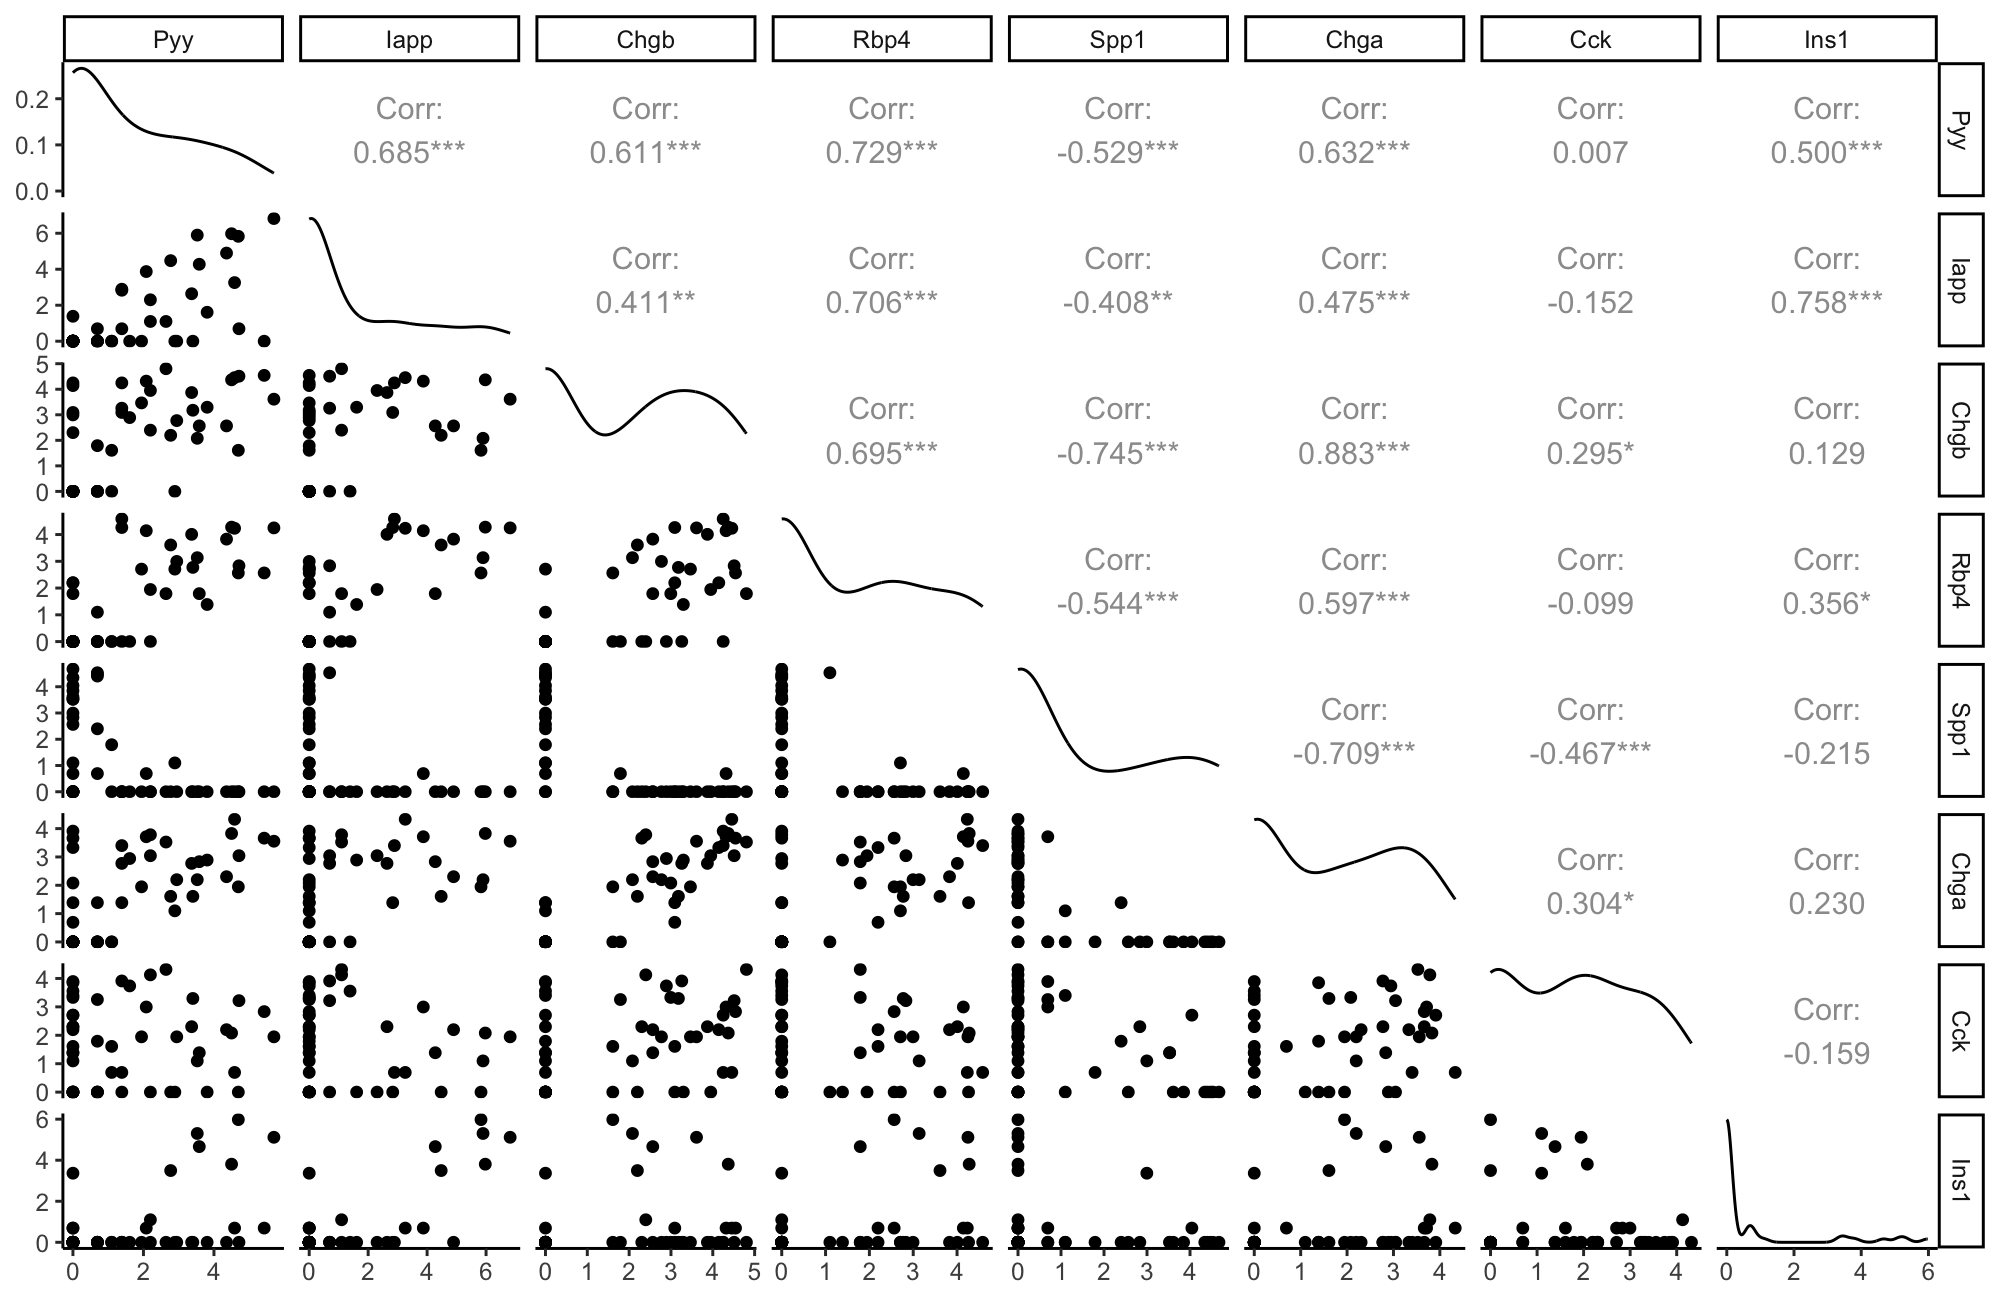
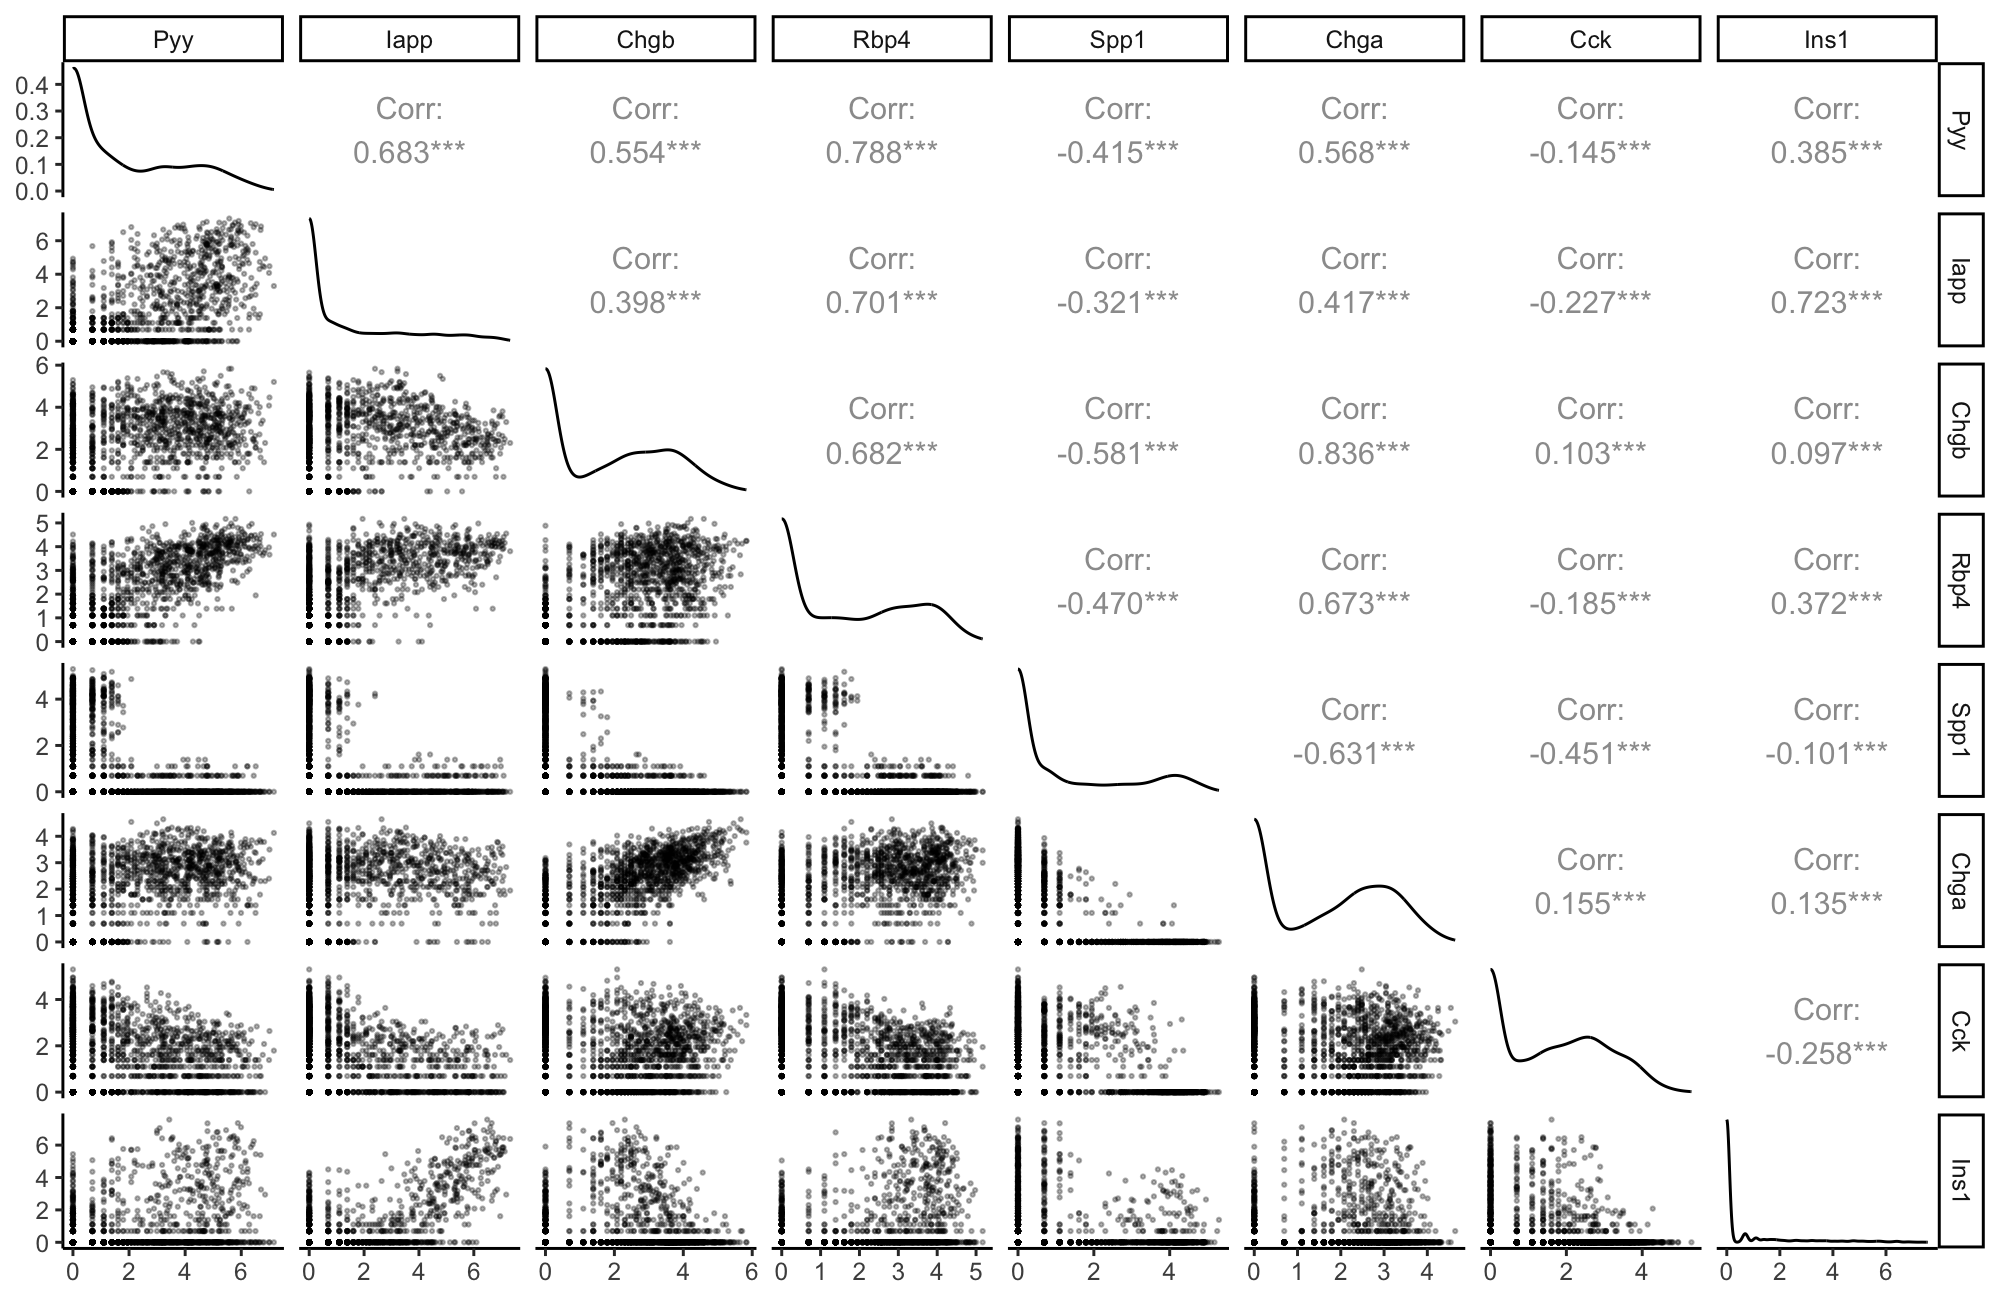
some revisions

diff --git a/2023/20231206/20231206.html b/2023/20231206/20231206.html
@@ -269,20 +269,20 @@ For each gene, we can specify the regression formula and distributional family.
 
 
 ```r
-margins &lt;- setup_margins(sce, ~ ns(pseudotime, df = 3),  ~ ZINBLSS())
+margins &lt;- setup_margins(sce, ~ ns(pseudotime, 3),  ~ ZINBLSS())
 margins
 ```
 
 &lt;pre class="r-output"&gt;&lt;code&gt;## &lt;span style='color: #BB00BB;'&gt;Plan:
 ## &lt;/span&gt;&lt;span style='color: #555555;'&gt;# A tibble: 6 x 3&lt;/span&gt;
-##     feature              family                    link
-##   &lt;span style='color: #555555; font-style: italic;'&gt;&lt;gene_id&gt;&lt;/span&gt;             &lt;span style='color: #555555; font-style: italic;'&gt;&lt;distn&gt;&lt;/span&gt;                  &lt;span style='color: #555555; font-style: italic;'&gt;&lt;link&gt;&lt;/span&gt;
-## &lt;span style='color: #555555;'&gt;1&lt;/span&gt;       &lt;span style='color: #00BBBB;'&gt;Pyy&lt;/span&gt; ZINBI [mu,sigma,nu] ~ns(pseudotime, df = 3)
-## &lt;span style='color: #555555;'&gt;2&lt;/span&gt;      &lt;span style='color: #00BBBB;'&gt;Iapp&lt;/span&gt; ZINBI [mu,sigma,nu] ~ns(pseudotime, df = 3)
-## &lt;span style='color: #555555;'&gt;3&lt;/span&gt;      &lt;span style='color: #00BBBB;'&gt;Chgb&lt;/span&gt; ZINBI [mu,sigma,nu] ~ns(pseudotime, df = 3)
-## &lt;span style='color: #555555;'&gt;4&lt;/span&gt;      &lt;span style='color: #00BBBB;'&gt;Rbp4&lt;/span&gt; ZINBI [mu,sigma,nu] ~ns(pseudotime, df = 3)
-## &lt;span style='color: #555555;'&gt;5&lt;/span&gt;      &lt;span style='color: #00BBBB;'&gt;Spp1&lt;/span&gt; ZINBI [mu,sigma,nu] ~ns(pseudotime, df = 3)
-## &lt;span style='color: #555555;'&gt;6&lt;/span&gt;      &lt;span style='color: #00BBBB;'&gt;Chga&lt;/span&gt; ZINBI [mu,sigma,nu] ~ns(pseudotime, df = 3)
+##     feature              family               link
+##   &lt;span style='color: #555555; font-style: italic;'&gt;&lt;gene_id&gt;&lt;/span&gt;             &lt;span style='color: #555555; font-style: italic;'&gt;&lt;distn&gt;&lt;/span&gt;             &lt;span style='color: #555555; font-style: italic;'&gt;&lt;link&gt;&lt;/span&gt;
+## &lt;span style='color: #555555;'&gt;1&lt;/span&gt;       &lt;span style='color: #00BBBB;'&gt;Pyy&lt;/span&gt; ZINBI [mu,sigma,nu] ~ns(pseudotime, 3)
+## &lt;span style='color: #555555;'&gt;2&lt;/span&gt;      &lt;span style='color: #00BBBB;'&gt;Iapp&lt;/span&gt; ZINBI [mu,sigma,nu] ~ns(pseudotime, 3)
+## &lt;span style='color: #555555;'&gt;3&lt;/span&gt;      &lt;span style='color: #00BBBB;'&gt;Chgb&lt;/span&gt; ZINBI [mu,sigma,nu] ~ns(pseudotime, 3)
+## &lt;span style='color: #555555;'&gt;4&lt;/span&gt;      &lt;span style='color: #00BBBB;'&gt;Rbp4&lt;/span&gt; ZINBI [mu,sigma,nu] ~ns(pseudotime, 3)
+## &lt;span style='color: #555555;'&gt;5&lt;/span&gt;      &lt;span style='color: #00BBBB;'&gt;Spp1&lt;/span&gt; ZINBI [mu,sigma,nu] ~ns(pseudotime, 3)
+## &lt;span style='color: #555555;'&gt;6&lt;/span&gt;      &lt;span style='color: #00BBBB;'&gt;Chga&lt;/span&gt; ZINBI [mu,sigma,nu] ~ns(pseudotime, 3)
 ## &lt;span style='color: #00BBBB;'&gt;Pyy, Iapp, Chgb&lt;/span&gt;, and &lt;span style='color: #00BBBB;'&gt;7&lt;/span&gt; &lt;span style='color: #00BBBB;'&gt;other features&lt;/span&gt; need fitting.&lt;span style='color: #BB00BB;'&gt;
 ## Estimates:
 ## &lt;/span&gt;&lt;span style='color: #555555;'&gt;# A tibble: 0 x 0&lt;/span&gt;
@@ -351,9 +351,8 @@ plot(simulator, "pseudotime", line_opts = line_opts, ribbon_opts = ribbon_opts, 
 
 
 ```r
-grid &lt;- expand_colData(sce, "pseudotime")
-samples &lt;- sample(simulator, new_data = grid)
-plot_correlations(samples, points_opts = list(size = 1.5, alpha = 1))
+sample(simulator) |&gt;
+  plot_correlations(points = point_opts)
 ```
 
 &lt;img src="20231206_files/figure-html/correlation_plot-1.png" width="600" style="display: block; margin: auto;" /&gt;
@@ -376,20 +375,20 @@ We can change the regression formula for specific genes. Syntax color highlights
 
 ```r
 margins |&gt;
-  mutate(Spp1:Cck, link = ~ pseudotime) 
+  mutate(Chga:Ins1, link = ~ pseudotime) 
 ```
 
 &lt;pre class="r-output"&gt;&lt;code&gt;## &lt;span style='color: #BB00BB;'&gt;Plan:
 ## &lt;/span&gt;&lt;span style='color: #555555;'&gt;# A tibble: 6 x 3&lt;/span&gt;
-##     feature              family                    link
-##   &lt;span style='color: #555555; font-style: italic;'&gt;&lt;gene_id&gt;&lt;/span&gt;             &lt;span style='color: #555555; font-style: italic;'&gt;&lt;distn&gt;&lt;/span&gt;                  &lt;span style='color: #555555; font-style: italic;'&gt;&lt;link&gt;&lt;/span&gt;
-## &lt;span style='color: #555555;'&gt;1&lt;/span&gt;       Pyy ZINBI [mu,sigma,nu] ~ns(pseudotime, df = 3)
-## &lt;span style='color: #555555;'&gt;2&lt;/span&gt;      Iapp ZINBI [mu,sigma,nu] ~ns(pseudotime, df = 3)
-## &lt;span style='color: #555555;'&gt;3&lt;/span&gt;      Chgb ZINBI [mu,sigma,nu] ~ns(pseudotime, df = 3)
-## &lt;span style='color: #555555;'&gt;4&lt;/span&gt;      Rbp4 ZINBI [mu,sigma,nu] ~ns(pseudotime, df = 3)
-## &lt;span style='color: #555555;'&gt;5&lt;/span&gt;      &lt;span style='color: #00BBBB;'&gt;Spp1&lt;/span&gt; ZINBI [mu,sigma,nu]             ~pseudotime
-## &lt;span style='color: #555555;'&gt;6&lt;/span&gt;      &lt;span style='color: #00BBBB;'&gt;Chga&lt;/span&gt; ZINBI [mu,sigma,nu]             ~pseudotime
-## &lt;span style='color: #00BBBB;'&gt;Spp1 and Chga and Cck&lt;/span&gt; need fitting.&lt;span style='color: #BB00BB;'&gt;
+##     feature              family               link
+##   &lt;span style='color: #555555; font-style: italic;'&gt;&lt;gene_id&gt;&lt;/span&gt;             &lt;span style='color: #555555; font-style: italic;'&gt;&lt;distn&gt;&lt;/span&gt;             &lt;span style='color: #555555; font-style: italic;'&gt;&lt;link&gt;&lt;/span&gt;
+## &lt;span style='color: #555555;'&gt;1&lt;/span&gt;       Pyy ZINBI [mu,sigma,nu] ~ns(pseudotime, 3)
+## &lt;span style='color: #555555;'&gt;2&lt;/span&gt;      Iapp ZINBI [mu,sigma,nu] ~ns(pseudotime, 3)
+## &lt;span style='color: #555555;'&gt;3&lt;/span&gt;      Chgb ZINBI [mu,sigma,nu] ~ns(pseudotime, 3)
+## &lt;span style='color: #555555;'&gt;4&lt;/span&gt;      Rbp4 ZINBI [mu,sigma,nu] ~ns(pseudotime, 3)
+## &lt;span style='color: #555555;'&gt;5&lt;/span&gt;      Spp1 ZINBI [mu,sigma,nu] ~ns(pseudotime, 3)
+## &lt;span style='color: #555555;'&gt;6&lt;/span&gt;      &lt;span style='color: #00BBBB;'&gt;Chga&lt;/span&gt; ZINBI [mu,sigma,nu]        ~pseudotime
+## &lt;span style='color: #00BBBB;'&gt;Chga and Cck and Ins1&lt;/span&gt; need fitting.&lt;span style='color: #BB00BB;'&gt;
 ## Estimates:
 ## &lt;/span&gt;&lt;span style='color: #555555;'&gt;# A tibble: 3 x 2&lt;/span&gt;
 ##   feature fit       
@@ -406,7 +405,7 @@ margins |&gt;
 
 
 ```r
-altered &lt;- mutate(margins, Spp1:Cck, link = ~ pseudotime) |&gt;
+altered &lt;- mutate(margins, Chga:Ins1, link = ~ pseudotime) |&gt;
   estimate(sce)
 plot(altered, sce, "pseudotime", line_opts = line_opts, ribbon_opts = ribbon_opts, point_opts = point_opts) +
   facet_wrap(~ feature, ncol = 4, scales = "free_y")
@@ -423,22 +422,22 @@ And we can layer several on top of one another.
 
 ```r
 margins |&gt;
-  mutate(Spp1:Cck, link = ~ pseudotime) |&gt;
-  mutate(c("Pyy", "Ins1"), family = ~ GaussianLSS()) |&gt;
-  mutate(Iapp, link = list(mu = ~ ns(pseudotime, df = 3), sigma = ~ 1, nu = ~ 1))
+  mutate(Chga:Ins1, link = ~ pseudotime) |&gt;
+  mutate(c("Pyy", "Rbp4"), family = ~ GaussianLSS()) |&gt;
+  mutate(Iapp, link = list(mu = ~ ns(pseudotime, df = 5), sigma = ~ 1, nu = ~ 1))
 ```
 
 &lt;pre class="r-output"&gt;&lt;code&gt;## &lt;span style='color: #BB00BB;'&gt;Plan:
 ## &lt;/span&gt;&lt;span style='color: #555555;'&gt;# A tibble: 6 x 3&lt;/span&gt;
-##     feature              family                    link
-##   &lt;span style='color: #555555; font-style: italic;'&gt;&lt;gene_id&gt;&lt;/span&gt;             &lt;span style='color: #555555; font-style: italic;'&gt;&lt;distn&gt;&lt;/span&gt;                  &lt;span style='color: #555555; font-style: italic;'&gt;&lt;link&gt;&lt;/span&gt;
-## &lt;span style='color: #555555;'&gt;1&lt;/span&gt;       &lt;span style='color: #00BBBB;'&gt;Pyy&lt;/span&gt; Gaussian [mu,sigma] ~ns(pseudotime, df = 3)
-## &lt;span style='color: #555555;'&gt;2&lt;/span&gt;      &lt;span style='color: #00BBBB;'&gt;Iapp&lt;/span&gt; ZINBI [mu,sigma,nu]    mu~ns(pseudotime,...
-## &lt;span style='color: #555555;'&gt;3&lt;/span&gt;      Chgb ZINBI [mu,sigma,nu] ~ns(pseudotime, df = 3)
-## &lt;span style='color: #555555;'&gt;4&lt;/span&gt;      Rbp4 ZINBI [mu,sigma,nu] ~ns(pseudotime, df = 3)
-## &lt;span style='color: #555555;'&gt;5&lt;/span&gt;      &lt;span style='color: #00BBBB;'&gt;Spp1&lt;/span&gt; ZINBI [mu,sigma,nu]             ~pseudotime
-## &lt;span style='color: #555555;'&gt;6&lt;/span&gt;      &lt;span style='color: #00BBBB;'&gt;Chga&lt;/span&gt; ZINBI [mu,sigma,nu]             ~pseudotime
-## &lt;span style='color: #00BBBB;'&gt;Pyy, Iapp, Spp1&lt;/span&gt;, and &lt;span style='color: #00BBBB;'&gt;3&lt;/span&gt; &lt;span style='color: #00BBBB;'&gt;other features&lt;/span&gt; need fitting.&lt;span style='color: #BB00BB;'&gt;
+##     feature              family                       link
+##   &lt;span style='color: #555555; font-style: italic;'&gt;&lt;gene_id&gt;&lt;/span&gt;             &lt;span style='color: #555555; font-style: italic;'&gt;&lt;distn&gt;&lt;/span&gt;                     &lt;span style='color: #555555; font-style: italic;'&gt;&lt;link&gt;&lt;/span&gt;
+## &lt;span style='color: #555555;'&gt;1&lt;/span&gt;       &lt;span style='color: #00BBBB;'&gt;Pyy&lt;/span&gt; Gaussian [mu,sigma]         ~ns(pseudotime, 3)
+## &lt;span style='color: #555555;'&gt;2&lt;/span&gt;      &lt;span style='color: #00BBBB;'&gt;Iapp&lt;/span&gt; ZINBI [mu,sigma,nu] mu~ns(pseudotime, df = ...
+## &lt;span style='color: #555555;'&gt;3&lt;/span&gt;      Chgb ZINBI [mu,sigma,nu]         ~ns(pseudotime, 3)
+## &lt;span style='color: #555555;'&gt;4&lt;/span&gt;      &lt;span style='color: #00BBBB;'&gt;Rbp4&lt;/span&gt; Gaussian [mu,sigma]         ~ns(pseudotime, 3)
+## &lt;span style='color: #555555;'&gt;5&lt;/span&gt;      Spp1 ZINBI [mu,sigma,nu]         ~ns(pseudotime, 3)
+## &lt;span style='color: #555555;'&gt;6&lt;/span&gt;      &lt;span style='color: #00BBBB;'&gt;Chga&lt;/span&gt; ZINBI [mu,sigma,nu]                ~pseudotime
+## &lt;span style='color: #00BBBB;'&gt;Pyy, Iapp, Rbp4&lt;/span&gt;, and &lt;span style='color: #00BBBB;'&gt;3&lt;/span&gt; &lt;span style='color: #00BBBB;'&gt;other features&lt;/span&gt; need fitting.&lt;span style='color: #BB00BB;'&gt;
 ## Estimates:
 ## &lt;/span&gt;&lt;span style='color: #555555;'&gt;# A tibble: 3 x 2&lt;/span&gt;
 ##   feature fit       
@@ -525,7 +524,7 @@ sim_joined &lt;- join_pamona(sims)
 
 &lt;pre class="r-output"&gt;&lt;code&gt;## Pamona start!
 ## use random seed: 1
-## Pamona Done! takes 3.288163 seconds
+## Pamona Done! takes 1.609353 seconds
 &lt;/code&gt;&lt;/pre&gt;
 
 .center[
@@ -734,8 +733,8 @@ We have an experimental interactive visualization that can be used for model cri
 
 ### References
 
-[1] D. L&lt;U+00E4&gt;hnemann, J. K&lt;U+00F6&gt;ster, E. Szczurek, et al. "Eleven
-grand challenges in single-cell data science". In: _Genome Biology_ 21
+[1] D. Lahnemann, J. Koster, E. Szczurek, et al. "Eleven grand
+challenges in single-cell data science". In: _Genome Biology_ 21
 (2020). &lt;https://api.semanticscholar.org/CorpusID:211054289&gt;.
 
 [2] L. Zappia, B. Phipson, and A. Oshlack. "Splatter: simulation of
@@ -751,67 +750,39 @@ Biotechnology_ (2023), pp. 1-6.
 
 ### References
 
-[4] S. N. Goodman. "Of P-values and Bayes: a modest
-proposal." In: _Epidemiology_ 12 3 (2001), pp.  295-7
-.
-&lt;https://api.semanticscholar.org/CorpusID:41986475&gt;.
-
-[5] E. Pasolli, L. Schiffer, P. Manghi, et al.
-"Accessible, curated metagenomic data through
-ExperimentHub". In: _Nature Methods_ 14 (2017), pp.
-1023-1024.
-&lt;https://api.semanticscholar.org/CorpusID:3403081&gt;.
-
-[6] B. J. Callahan, K. Sankaran, J. Fukuyama, et al.
-"Bioconductor Workflow for Microbiome Data Analysis:
-from raw reads to community analyses". In:
-_F1000Research_ 5 (2016).
-&lt;https://api.semanticscholar.org/CorpusID:6468345&gt;.
-
----
-
-### References
-
-[7] G. H. Golub and H. Zha. "Perturbation analysis of
-the canonical correlations of matrix pairs". In:
-_Linear Algebra and its Applications_ 210 (1994), pp.
-3-28.
-&lt;https://api.semanticscholar.org/CorpusID:123160725&gt;.
-
-[8] K. Arikawa. "Theoretical framework for analyzing
-structural compliance properties of proteins". In:
-_Biophysics and Physicobiology_ 15 (2018), pp. 58 -
-74.
-&lt;https://api.semanticscholar.org/CorpusID:4472297&gt;.
-
-[9] M. A. Hernan and J. M. Robins. _Causal
-inference_. En. Boca Raton, FL: CRC Press, Jan. 2024.
-
-[10] J. J. Li. "Using Synthetic Null Data to Enhance
-Statistical Rigor in Genomics".
-&lt;http://jsb.ucla.edu/sites/default/files/072523_Overton.pdf&gt;.
-
----
-
-### References
-
-[11] B. Hofner, A. Mayr, and M. Schmid. "gamboostLSS:
-An R Package for Model Building and Variable
-Selection in the GAMLSS Framework". In: _arXiv:
-Computation_ (2014).
-&lt;https://api.semanticscholar.org/CorpusID:62302678&gt;.
-
-[12] R. A. Rigby and D. M. Stasinopoulos.
-"Generalized additive models for location, scale and
-shape". In: _Journal of the Royal Statistical
+[4] R. A. Rigby and D. M. Stasinopoulos. "Generalized additive models
+for location, scale and shape". In: _Journal of the Royal Statistical
 Society: Series C (Applied Statistics)_ 54 (2005).
 &lt;https://api.semanticscholar.org/CorpusID:56076930&gt;.
 
-[13] K. Cao, Y. Hong, and L. Wan. "Manifold alignment
-for heterogeneous single-cell multi-omics data
-integration using Pamona". In: _Bioinformatics_ 38
-(2020), pp. 211 - 219.
+[5] B. Hofner, A. Mayr, and M. Schmid. "gamboostLSS: An R Package for
+Model Building and Variable Selection in the GAMLSS Framework". In:
+_arXiv: Computation_ (2014).
+&lt;https://api.semanticscholar.org/CorpusID:62302678&gt;.
+
+[6] K. Cao, Y. Hong, and L. Wan. "Manifold alignment for heterogeneous
+single-cell multi-omics data integration using Pamona". In:
+_Bioinformatics_ 38 (2020), pp. 211 - 219.
 &lt;https://api.semanticscholar.org/CorpusID:226959190&gt;.
+
+---
+
+### References
+
+[7] S. N. Goodman. "Of P-values and Bayes: a modest proposal." In:
+_Epidemiology_ 12 3 (2001), pp.  295-7 .
+&lt;https://api.semanticscholar.org/CorpusID:41986475&gt;.
+
+[8] E. Pasolli, L. Schiffer, P. Manghi, et al. "Accessible, curated
+metagenomic data through ExperimentHub". In: _Nature Methods_ 14
+(2017), pp. 1023-1024.
+&lt;https://api.semanticscholar.org/CorpusID:3403081&gt;.
+
+---
+
+### References
+
+
 
 ---
 
